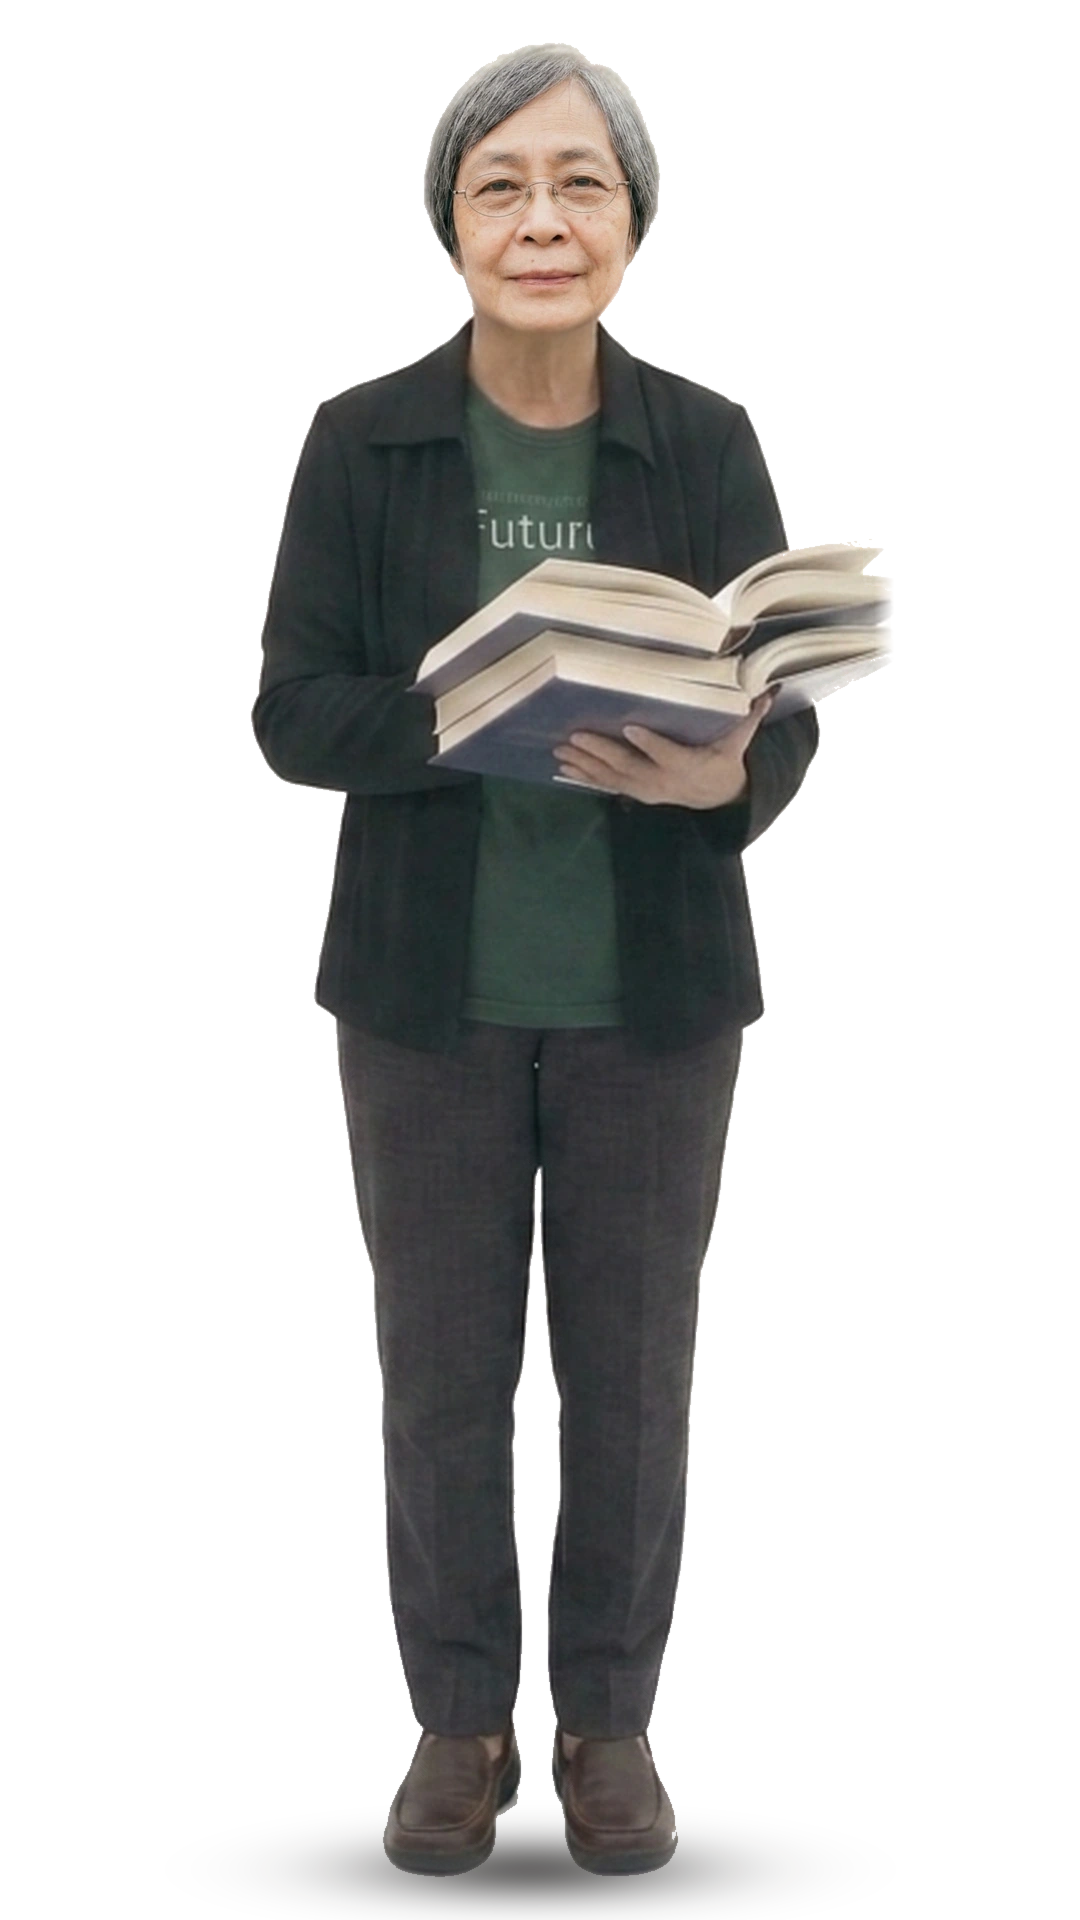
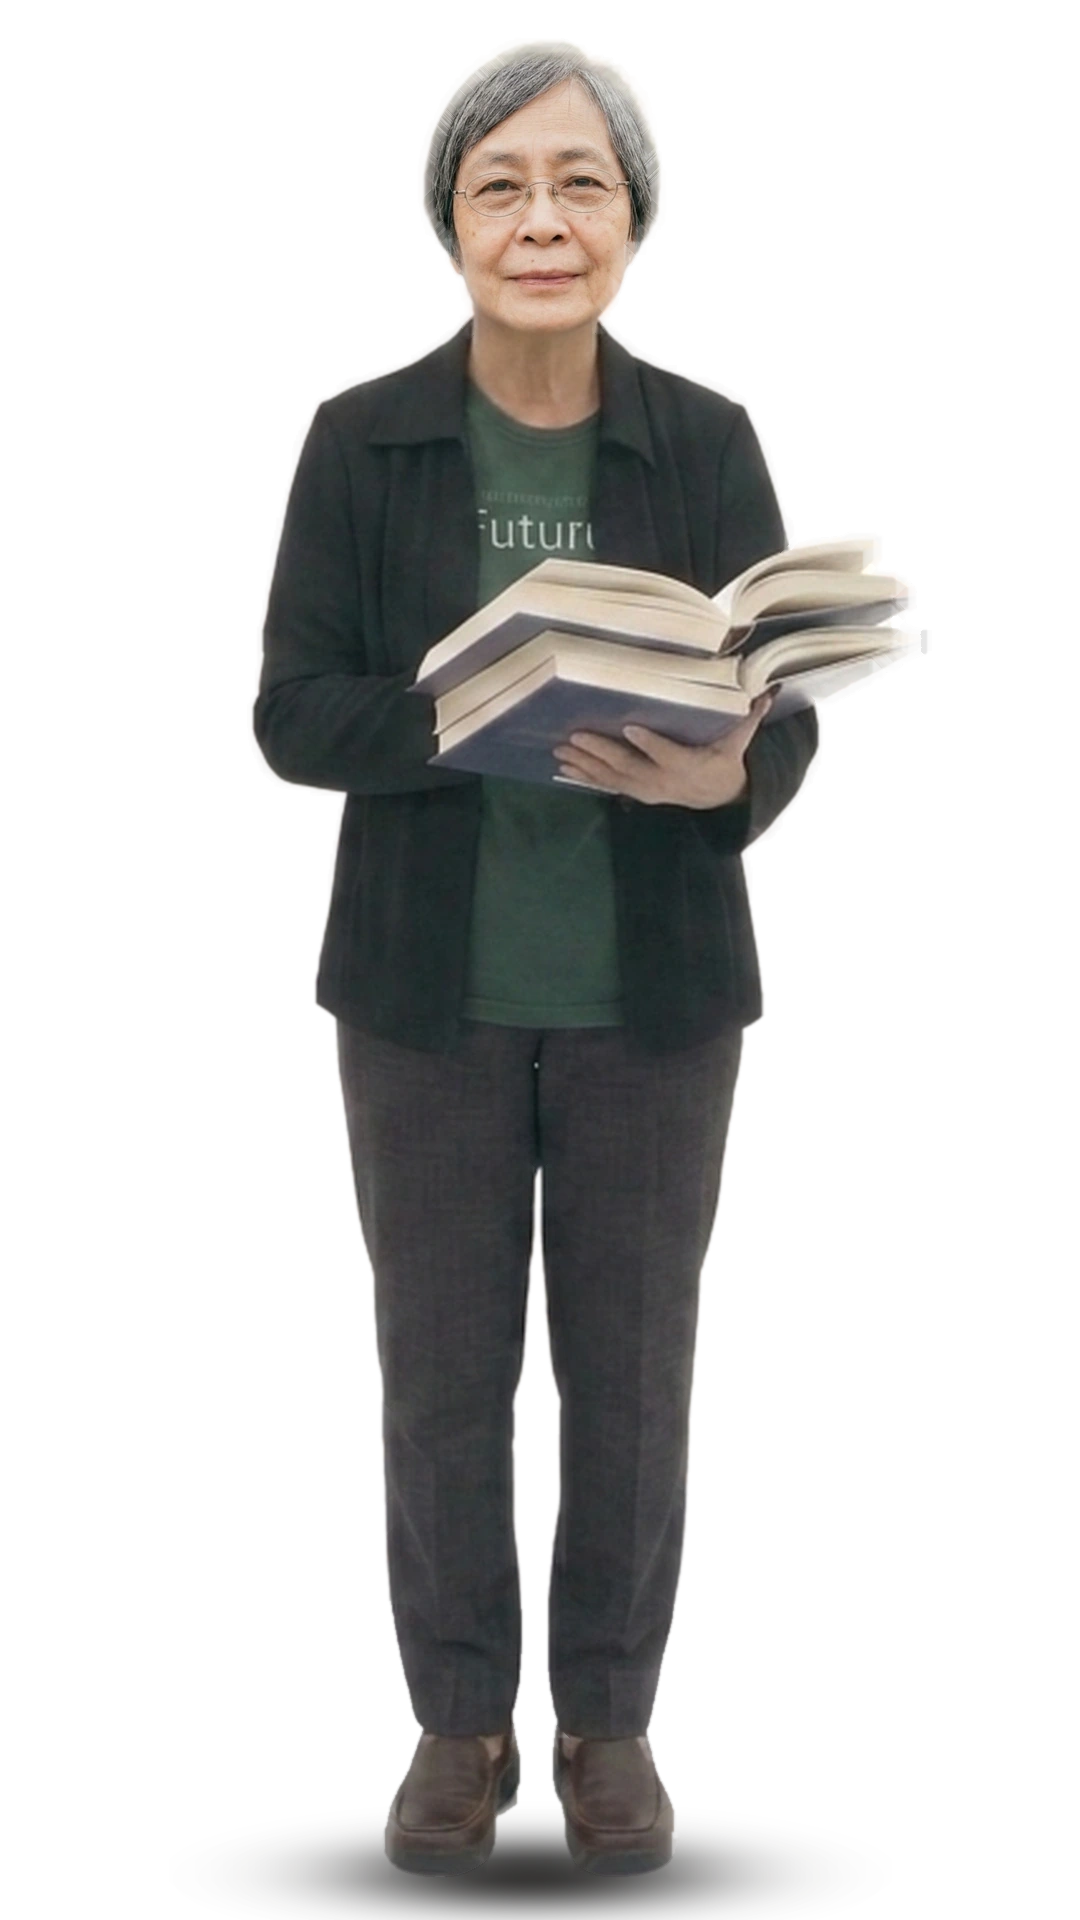
去背改用形態學開運算清掉細長突出物，取代上一版的幾何裁切
使用者第二次回報「還是怪怪的」。量過之後主因是我上一版自己造成的：
用一條 x874→894 的垂直淡出去裁書頁尖端，在書的右緣留下一道階梯狀切口，
比原本要修的白刺更像修圖修壞。

改用開運算（MinFilter(21) → MaxFilter(21)，取交集所以只減不增）：
沿輪廓收縮，細長的整根消失、主體只縮 11px。
實測 書區移除 1094px、主體右緣位移 11.4px、頭髮損失 49px、
手指與眼鏡零損失、相對線上版總共只多移除 818px。

先試過兩條更保守的路都不行，記在註解裡免得有人繞回去：
- 丟棄碎塊沒用：那些尖端是透過細線連在書上的，全部獨立碎塊加起來只有 166px
- 任何色距門檻都分不開：細暗線的色距高達 341，連 alpha>0.9 的實心判定
  都把它包進去

順帶記下這條管線的天花板：底圖的邊緣是對著淺灰 rgb(233,237,236) 算的，
殘留瑕疵正比於新舊背景的亮度差。街景板平均亮度 75，差 160 階。
實測把板子從 74% 提到 118%，邊緣過亮的像素從 5798 降到 3268——
要再往上就得重新生成一張對著深色背景算的底圖，不是調參數的事。

檔案 139KB → 132KB。幾何沒動，pose.test.ts 不用改。
Tests 264 passed、tsc exit=0、build 乾淨。

diff --git a/components/avatar/poses.ts b/components/avatar/poses.ts
@@ -288,11 +288,24 @@ export const STAGE_MASK =
  *      實測書頁的半透明像素亮到 255，而它所屬的實心書頁只有 174；
  *      頭髮半透明亮到 239，實心頭髮是 173。超出就等比壓下來（保留色相）。
  *      這一條專治頭頂的白點。
- *   8. **書頁尖端要裁掉**（y 515–705，x 874→894 線性淡出）。
- *      那是 1–3px 的暗線加淺色暈開，色距高達 341 所以**任何門檻都分不開**，
- *      連 alpha>0.9 的實心判定都把它包進去。它只在淺色背景上成立，
- *      換到暗街上不夾會變白刺、夾了會變黑塊，只能整個拿掉。
- *      ⚠ 這是唯一寫死座標的一步。重烘底圖之後這組座標會失效，要重新量。
+ *   8. **細長的突出物用形態學開運算清掉**（MinFilter(21) 再 MaxFilter(21)，
+ *      只取交集所以只會減不會加）。書頁尖端是 1–3px 的暗線加淺色暈開，
+ *      色距高達 341 所以**任何門檻都分不開**——連 alpha>0.9 的實心判定都把
+ *      它包進去；而且它是**透過細線連在書上的**（連通元件測試：全部碎塊
+ *      加起來只有 166px），所以丟碎塊也沒用。
+ *      🔴 **不要改回用幾何直線裁切。** 第一次修就是畫一條 x874→894 的
+ *      垂直淡出，結果在書的右緣留下一道階梯狀的切口，比原本的白刺更像
+ *      修圖修壞。開運算沿著輪廓收縮，細的整根消失、主體只縮 11px。
+ *      實測：書區移除 1094px、主體右緣位移 11.4px、頭髮只損失 49px、
+ *      手指與眼鏡零損失。
+ *
+ * ## ⚠ 這條管線的天花板
+ *
+ * 底圖的邊緣是對著**淺灰 rgb(233,237,236)** 算出來的，所以殘留瑕疵的大小
+ * 正比於「新背景與原背景的亮度差」。街景板平均亮度 75，差了 160 階，
+ * 這就是為什麼頭髮與書頁（原圖裡最淺的兩個部位）最難處理。
+ * 實測把板子從 74% 提到 118%，邊緣過亮的像素從 5798 降到 3268。
+ * 要再往上就不是調參數的事了，得重新生成一張對著深色背景算的底圖。
  *
  * ⚠ **刻意不做整體調色。** 計畫本來要把她調暗貼近街景環境光，但底圖的臉是用
  * `-gamma 1.175` 對過串流顏色的（見上面那段），調色會讓橢圓區域重新對不上，
